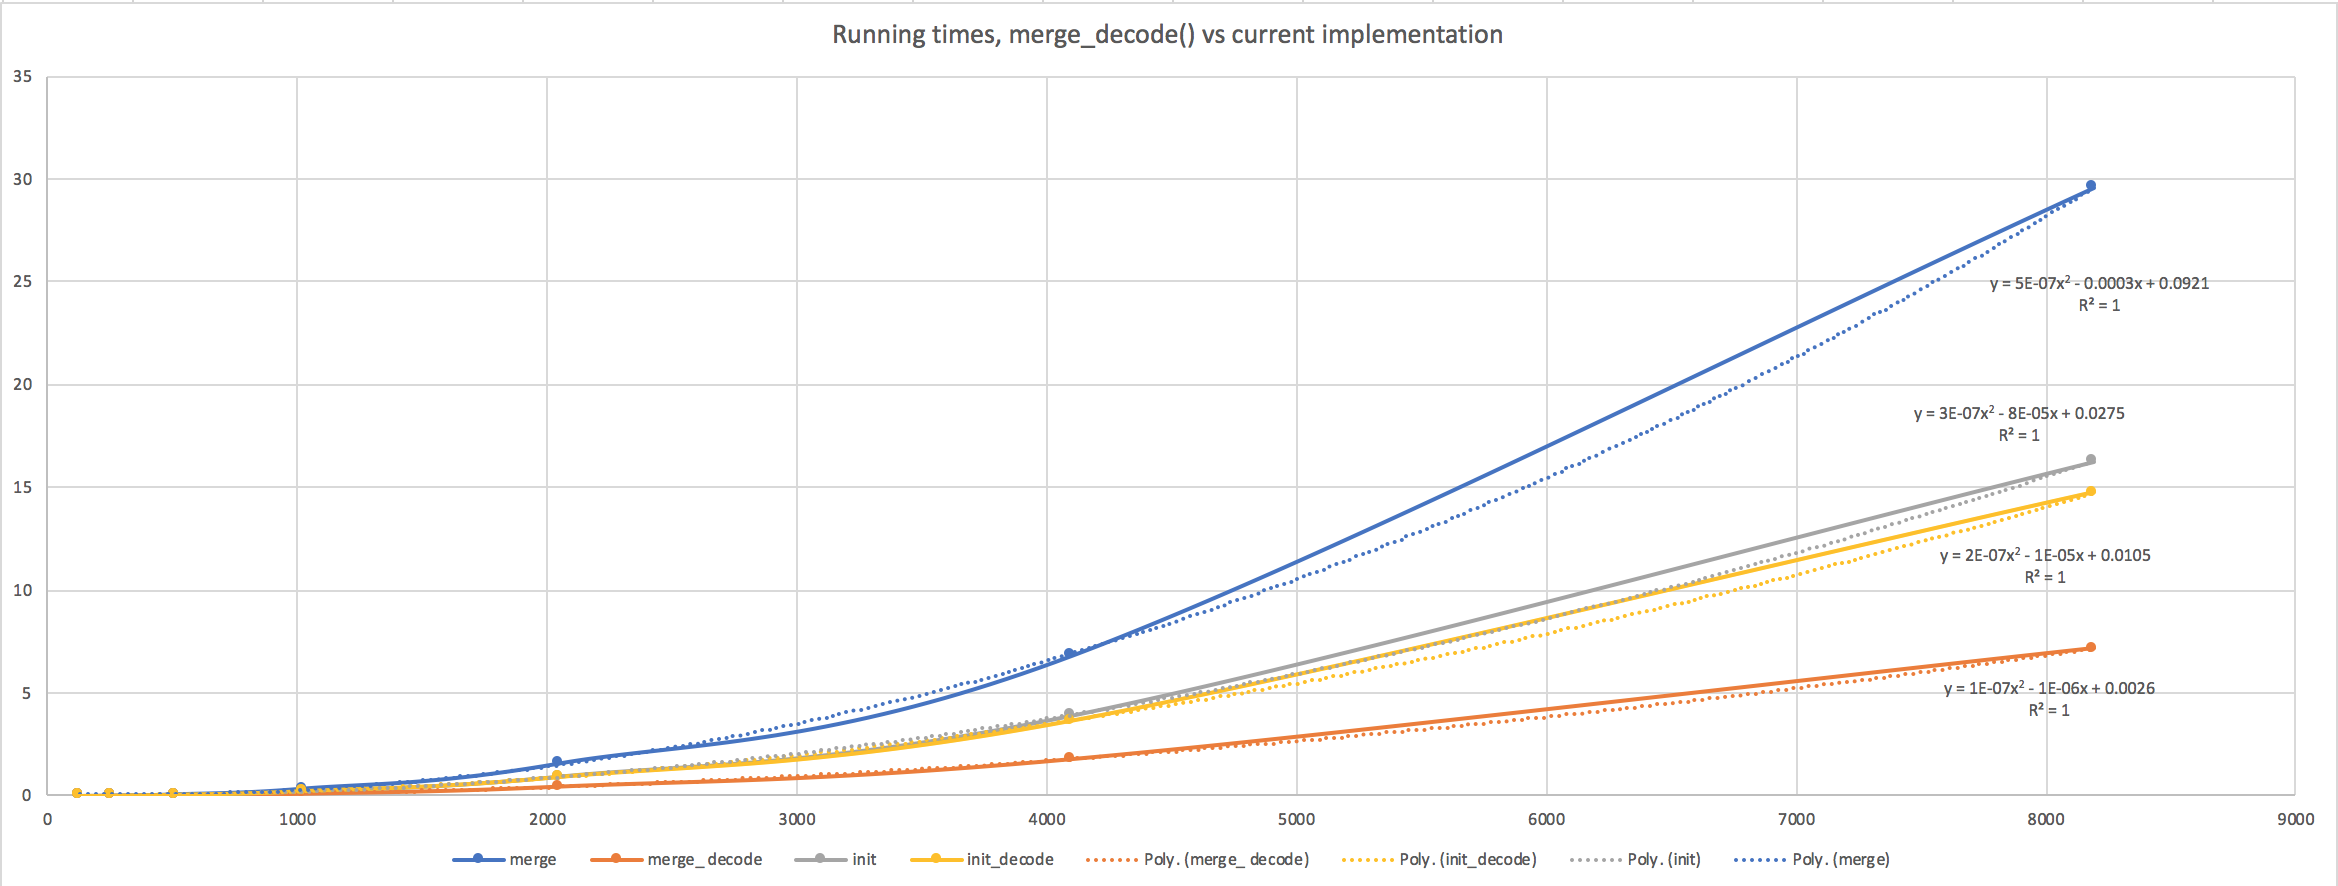
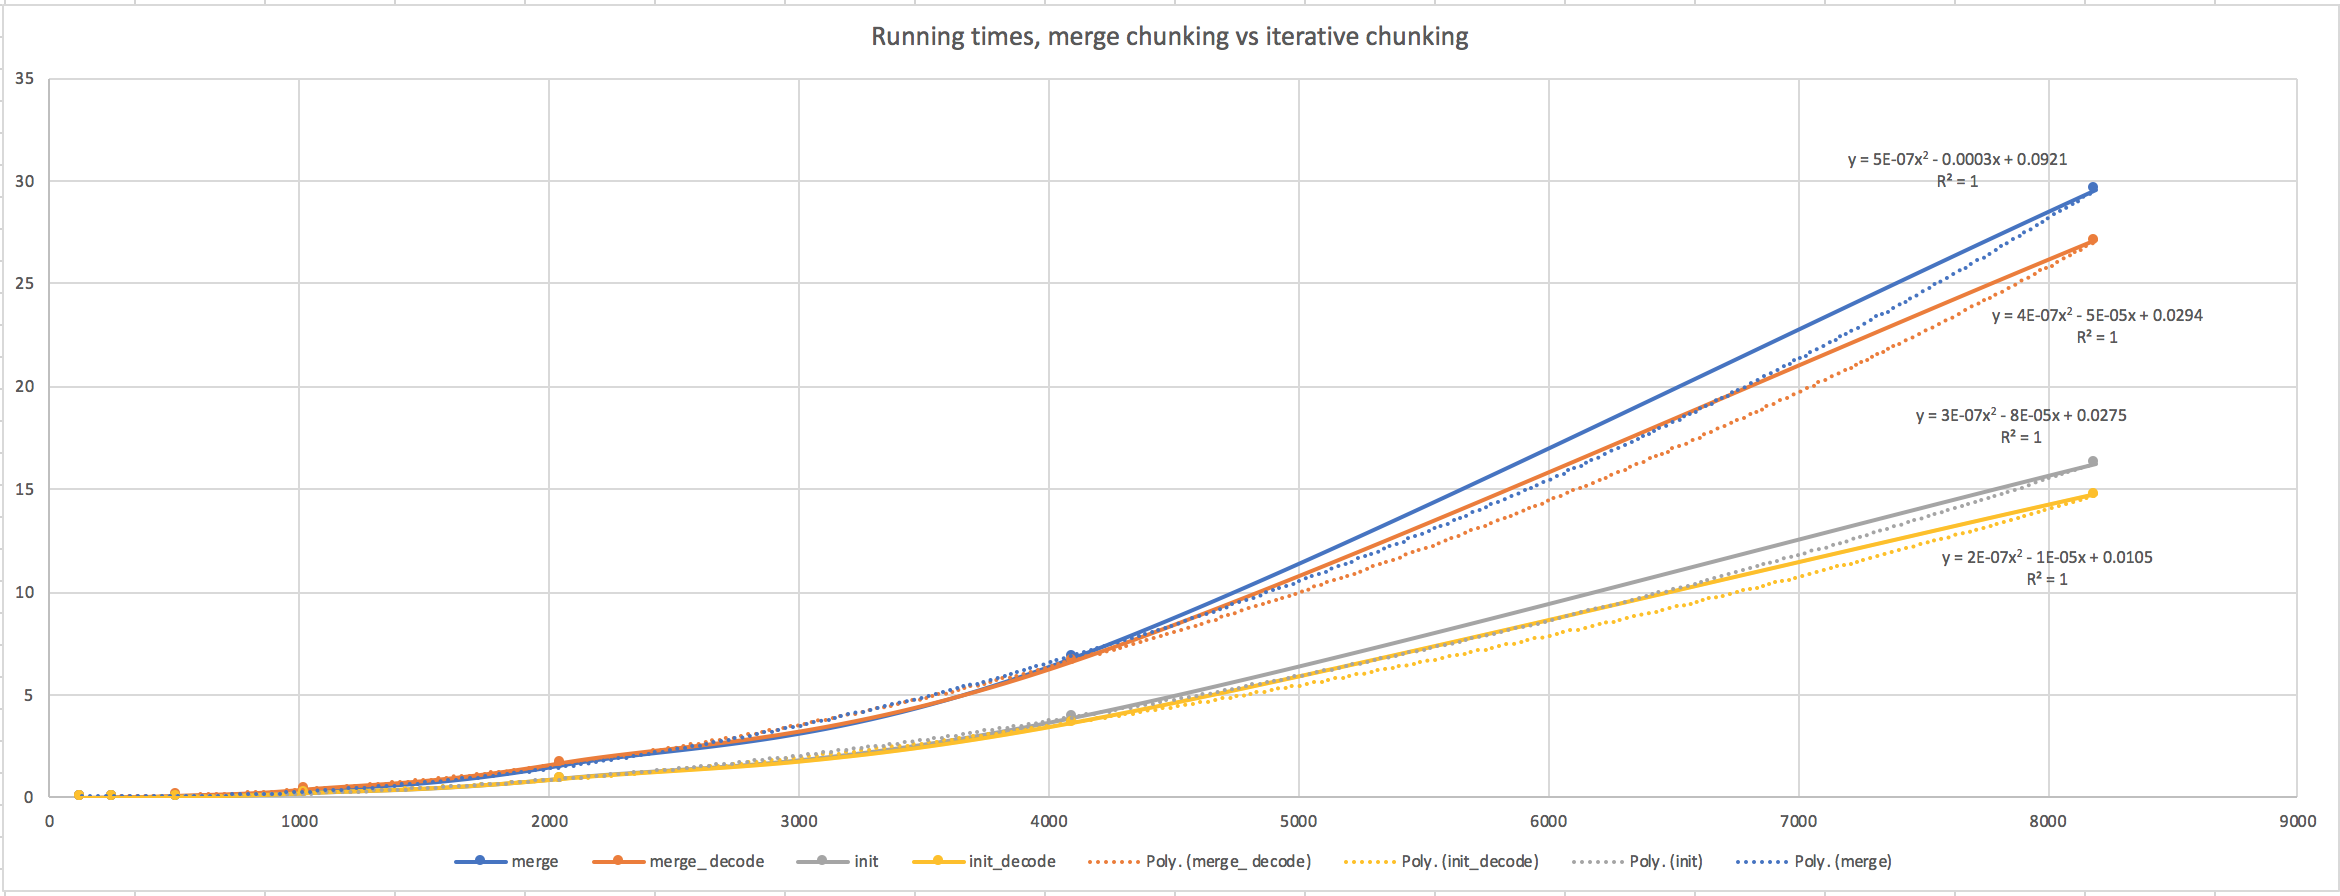
Fixed merge code

diff --git a/libs/dots.py b/libs/dots.py
@@ -98,7 +98,7 @@ class DotBlock:
                 arr[3][0 + (2 * j)], arr[3][1 + (2 * j)],            
             ] for j in range(len(arr[0]) // 2)]
 
-    # O(2^dn)
+    # O(n^2)
     def merge_chunk(self, arr, first_run=True):
         """
         Converts chunks to Braille symbols recursively.
@@ -304,7 +304,6 @@ class DotBlock:
             td = time.clock()
             out_success(message, longest_message, clock, td)
 
-    # O(n log n^2) or O(n^2), depending on user specifications
     # O(n^2) with speed and quality differences depending on version ran
     def convert(self, filename, debug=False, slow_mode=False, float_size=False):
         """
@@ -355,6 +354,8 @@ class DotBlock:
             # merge decode: O(n log 2n^2)
             else:
                 merge = self.merge_chunk(self.I)
+                merge = [merge[i:i+(self.X // 2)] for i in range(0, len(merge), self.X // 2)]
+
                 td2 = time.clock()  
                 out_success("[*] Merge chunking...", longest_message, td, td2)
 
@@ -365,7 +366,8 @@ class DotBlock:
                 if show_progress:
                     current_progress = 0
                     show_progress = show_current_progress(current_progress, message, debug=debug)
-                text = [self.convert_chunk(merge[_*4:((_+1)*4)]) for _ in range(0, len(merge) // 4, 4)]
+                
+                text = [self.convert_chunk(merge[_]) for _ in range(len(merge))]
 
                 td = time.clock()
                 out_success("[*] Decoding...", longest_message, td2, td)      
@@ -375,10 +377,8 @@ class DotBlock:
                 # write to file -- O(n)
                 with open(filename, "w") as f:
                     for line in range(len(text)):
-                        f.write(text[line])
-                        if (line + 1) % (self.X / 2) == 0:
-                            f.write("\n")
-
+                        f.write(text[line] + "\n")
+                    
                         # update progress
                         if show_progress:
                             current_progress = line / (len(text) - 1)
@@ -386,6 +386,9 @@ class DotBlock:
                 
                 td2 = time.clock()
                 out_success("[*] Writing to file...", longest_message, td, td2)
+
+                # for line in range(len(text)):
+                #     print(text[line])
 
         # -s (estimated runtime-complexity O(3n^2 + 2n)
         else:
